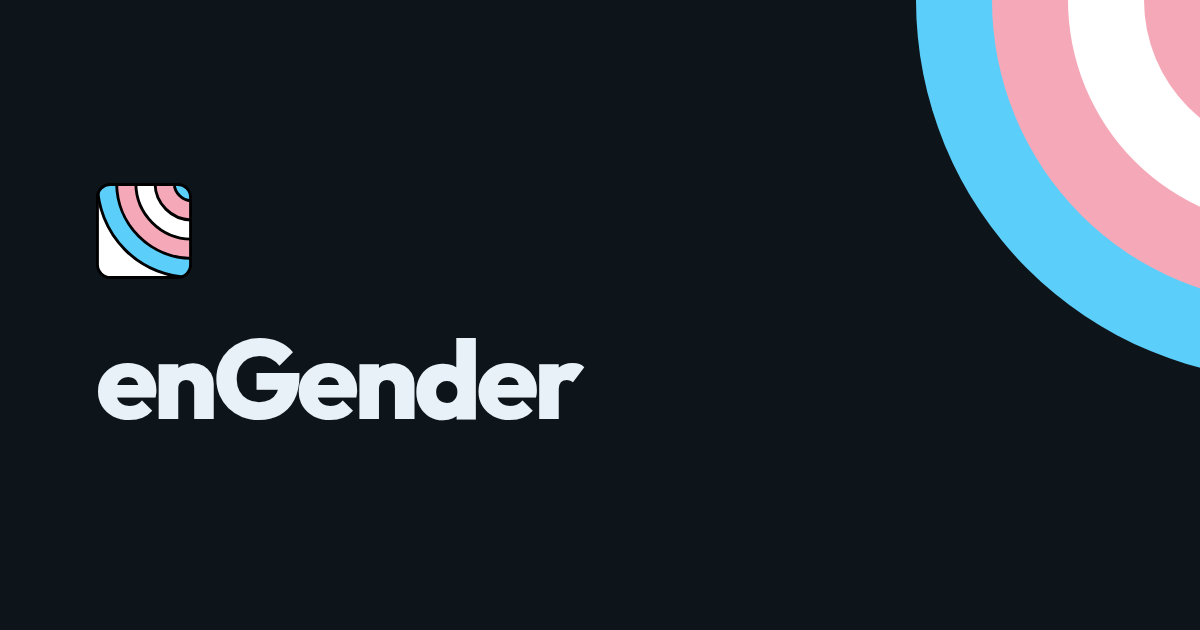
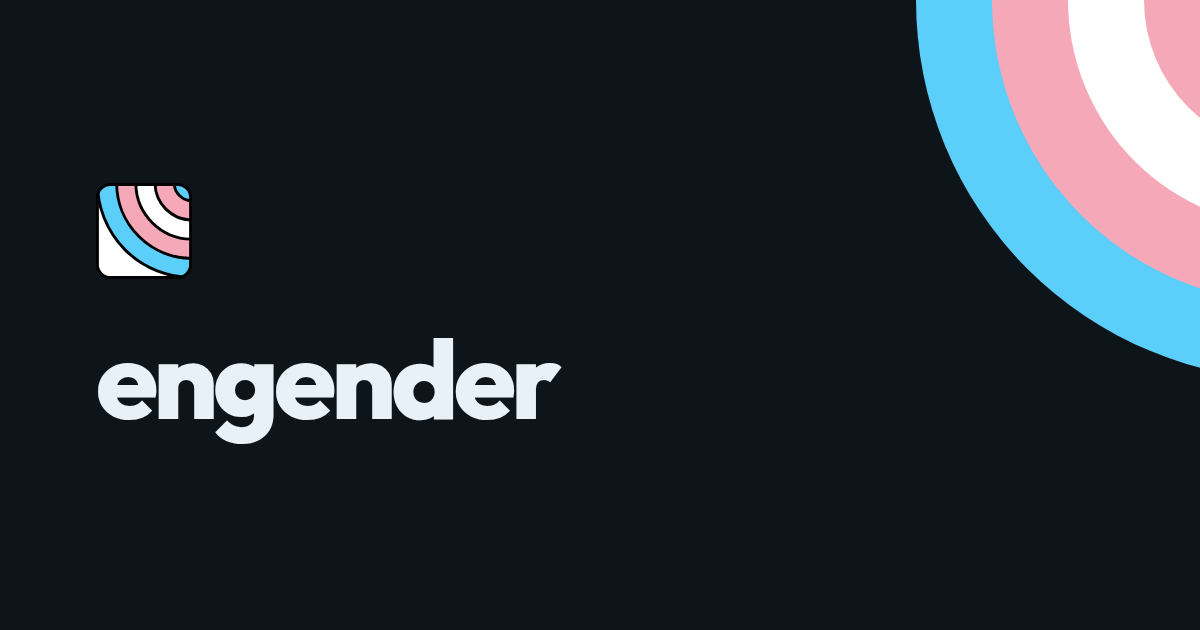
Set the name lowercase, and turn the flag cycle over in 24s not 48
Two things off the built page.

The name is engender, everywhere: the headword, the wordmark on the
social card, the footer, the titles, the gateway, the Play listing and
the source copy both pages are generated from (Alicja, 2026-09-22). It
reverses her own decision of 2026-08-28, which set the headword in the
product's camel case so the dictionary entry would be the pun rather than
a clue to it. content/en/landing.md carries both dates and what each one
bought, because the paragraph that argued for the old casing is the
paragraph a future ticket would have read as current.

The Polish pages still call the product Gender Diary, which is the
pre-rewrite copy state DESIGN.md already records as not canonized. It is
the translation pass's to change, not this ticket's.

And the cycle runs at three seconds instead of six. The mechanism was
never broken - driven for 56 seconds it walks all eight flags and comes
back to trans - but a full turn took 48 seconds, so a twenty-second visit
saw three of the eight and the site looked like it had three flags
(Alicja, 2026-09-22: "the site should cycle between all 8 flags, not just
3"). Six seconds was chosen when the flag was a motif in the corner and
the point was that the colour was changing rather than that anybody saw
the set; the splash is a field of the live flag now, so the flag is the
whole of the first screen's colour and the set is the thing to see. Three
is the floor, not a preference: the motif's own change takes 900ms and a
[…]

Changed region(s): [[0.1542, 0.5127, 0.4933, 0.7238]]

diff --git a/src/lib/flagCycle.svelte.ts b/src/lib/flagCycle.svelte.ts
@@ -10,12 +10,20 @@ import { FLAGS, type Flag } from '$lib/flags';
     offscreen or hidden. A page left open in a background tab for an afternoon
     should not be repainting a sun nobody is looking at.
 
-    The cycle is deliberately slow. Eight flags at six seconds is
-    forty-eight seconds for a full turn, which is longer than most visits: the
-    point is that the colour is *changing*, noticed out of the corner of an
-    eye, not that a reader gets shown all eight. A faster cycle turns the one
-    ambient thing on the page into a distraction sitting next to the copy. */
-const PERIOD_MS = 6000;
+    Three seconds, which is a full turn of all eight in twenty-four. It was
+    six, on the reasoning that the point was the colour *changing*, noticed out
+    of the corner of an eye, rather than a reader being shown all eight. That
+    stopped being true when the splash became a field of the live flag
+    (redesign ticket 08): the flag is the whole of the first screen's colour
+    now, not a motif in its corner, and at forty-eight seconds a visit that
+    lasts twenty only ever saw three of the eight - which is exactly what
+    Alicja reported on the built page (2026-09-22, "the site should cycle
+    between all 8 flags, not just 3").
+
+    Three and not less: the motif's own change takes 900ms and the rule's
+    sweep 1500, so anything under two seconds would start the next flag before
+    the last one had finished arriving. */
+const PERIOD_MS = 3000;
 
 let index = $state(0);
 let timer: ReturnType<typeof setInterval> | null = null;

diff --git a/src/routes/+page.svelte b/src/routes/+page.svelte
@@ -26,7 +26,7 @@
 </script>
 
 <svelte:head>
-  <title>enGender</title>
+  <title>engender</title>
   <meta name="description" content={description} />
   <link rel="canonical" href={`${SITE_ORIGIN}/`} />
   {#each LOCALES as locale (locale)}
@@ -41,7 +41,7 @@
 </svelte:head>
 
 <main id="content">
-  <h1>enGender</h1>
+  <h1>engender</h1>
   <!-- No label on the nav: the only words on this page are a name and the
        two language names, each tagged with its own lang, so there is nothing
        here for a person to read in the wrong language. -->

diff --git a/content/en/landing.md b/content/en/landing.md
@@ -1,6 +1,6 @@
 # Landing copy, English
 
-Source copy for the English site, rewritten for enGender by redesign ticket 02
+Source copy for the English site, rewritten for engender by redesign ticket 02
 against `.agents/product-marketing.md` v10. Written before the visual redesign
 (ticket 03), so the design serves this rather than this being cut to fit a layout.
 
@@ -26,13 +26,14 @@ names that person. The frame itself may be stated plainly, once: one trans perso
 wrote this for other trans people. It appears in the overview and nowhere else, and
 the copy otherwise shows who wrote it by knowing things, not by claiming to.
 
-enGender is the app; your journal, lowercase, is the thing it holds. The rename
+engender is the app; your journal, lowercase, is the thing it holds. The rename
 settled the old two-senses problem, and every page uses the words in those senses.
 The one fixed wording is the Start journal button, which reads as opening yours.
 
 The app's screens say scale, so this site says scale, and never dimension or axis.
 
-enGender keeps its casing everywhere, including at the start of a sentence.
+engender is lowercase everywhere, including at the start of a sentence
+(Alicja, 2026-09-22, reversing the camel case below).
 
 ---
 
@@ -55,19 +56,20 @@ stays on the page.
 dictionary entry with phonetics, and says the pun out loud rather than winking.
 Ticket 03 designs the shape; this is the text.*
 
-> **enGender** v. /ɪnˈdʒɛndə/
+> **engender** v. /ɪnˈdʒɛndə/
 > to cause or give rise to a feeling, situation or condition.
 
 The entry is the standard dictionary sense, unedited, because the reader completing
 the thought themselves is the whole trick. No line after it explains the joke.
 
 **The headword is set in the product's own casing** (Alicja's decision,
-2026-08-28). It read `engender`, the verb, with the reader left to notice that
-the app's name is the same word. Set as `enGender` the entry is the pun rather
-than a clue to it: a dictionary page for a word that is also the thing being
-described. It is the same word either way and the sense is untouched, so nothing
-about the claim changes - what changes is whether the page says it or waits to
-be caught.
+2026-08-28, and her reversal of it on 2026-09-22). For four weeks that casing
+was `enGender`, which made the entry the pun rather than a clue to it: a
+dictionary page for a word that is also the thing being described. The name is
+lowercase now, site-wide, so the headword reads `engender` - the verb, with the
+reader left to notice that the app's name is the same word. It is the same word
+either way and the sense is untouched, so nothing about the claim changes; what
+changes is whether the page says the joke or waits to be caught, and it waits.
 
 **Set as an entry rather than as a sentence** (Alicja's decision, 2026-08-27,
 during ticket 03). The headword takes its own line and everything the entry knows
@@ -97,13 +99,13 @@ links to and why nothing else on the page competes with it.
 
 *Gate: shipped.*
 
-> enGender is a journal for tracking gender transition. An entry holds a mood, a
+> engender is a journal for tracking gender transition. An entry holds a mood, a
 > note, your scales, tags, photos, a voice recording and how your body felt, and it
 > only needs one of those to count. Write several in one day if one does not cover
 > it. Backdate one to a day you missed.
 >
 > Mood trackers are the right shape for a daily habit, and they have nowhere to put
-> gender. enGender keeps the shape and adds scales you name yourself. It records
+> gender. engender keeps the shape and adds scales you name yourself. It records
 > what you tell it and does not try to interpret any of it.
 >
 > One trans person wrote this for other trans people. It is free software, there is
@@ -114,7 +116,7 @@ links to and why nothing else on the page competes with it.
 *Gate: shipped. The full page is `privacy.md` and this is only the handoff to it.*
 
 > Your journal is stored on your device, encrypted where it sits. There is no
-> enGender account, and your entries are not sent to an enGender server, because
+> engender account, and your entries are not sent to an engender server, because
 > none exists.
 >
 > What that protects, and what it does not, is on its own page.
@@ -324,7 +326,7 @@ too, per Journal Phase 2 ticket 25. The privacy page owns the longer treatment.*
 > **App lock.** A PIN in front of the app. It stops someone picking up your unlocked
 > phone and reading it. It is not encryption of what is stored.
 >
-> **Disguise.** The browser tab says Notes instead of enGender. On Android, the app's
+> **Disguise.** The browser tab says Notes instead of engender. On Android, the app's
 > name and icon on your phone go plain too.
 >
 > **Lock on leave.** Switch away from the app and it locks itself behind you.
@@ -419,7 +421,7 @@ the most literal way this page has. The block renders inside the Support section
 for now - the old site held it entirely, so no section of its own exists - and
 ticket 03 decides whether it earns one.*
 
-> **You can read it.** enGender is free software under the GPLv3. Do not take my
+> **You can read it.** engender is free software under the GPLv3. Do not take my
 > word for anything on this page: the source is public. Go and look, or get someone you
 > trust to look.
 >

diff --git a/content/en/privacy.md b/content/en/privacy.md
@@ -1,6 +1,6 @@
 # Landing copy, English: the privacy page
 
-Source copy for the privacy page, rewritten for enGender by redesign ticket 02
+Source copy for the privacy page, rewritten for engender by redesign ticket 02
 against `.agents/product-marketing.md` v10. The landing page carries a two-sentence
 handoff; being exact about what is and is not protected takes more than a sentence,
 and this page is where it happens.
@@ -28,7 +28,7 @@ this page could mislead somebody who is relying on it.
 
 *Gate: shipped.*
 
-> **What enGender protects, and what it does not**
+> **What engender protects, and what it does not**
 >
 > This is the long answer. The short one would have to leave out the parts that matter
 > if you are deciding whether to trust this with your journal.
@@ -37,7 +37,7 @@ this page could mislead somebody who is relying on it.
 
 *Gate: shipped.*
 
-> Your journal is stored on your device. There is no enGender account, no server
+> Your journal is stored on your device. There is no engender account, no server
 > with a copy of it on, and nothing syncing in the background. An entry you write goes
 > into storage on the device you wrote it on and stays there until you export it or
 > delete it.
@@ -50,7 +50,7 @@ this page could mislead somebody who is relying on it.
 *Gate: shipped. The counterweight sentence is required by ADR-0014 and by the spec
 wherever app lock is mentioned. It is not optional wording and does not get softened.*
 
-> App lock is off until you turn it on, like every control in enGender that hides
+> App lock is off until you turn it on, like every control in engender that hides
 > something. Keeping a journal about your own life is an ordinary thing to do. Some
 > people's circumstances make it dangerous anyway, and only you know whether that is
 > yours.
@@ -138,7 +138,7 @@ tickets 11 and 13); under the v10 doctrine it publishes with the rest.*
 > password into a key. That part has to be readable without the password, so that a
 > file from a newer version can say so instead of decrypting into nonsense. Everything
 > from your journal is behind the password. Somebody who finds the file learns that it
-> is an enGender Archive, because the header names the format, and nothing about what
+> is an engender Archive, because the header names the format, and nothing about what
 > is in it.
 >
 > **If you lose an Archive password**, that file is not readable again. Other Archives
@@ -158,14 +158,14 @@ appears here unqualified.*
 > What the host does not receive is your journal. Entries, photos, notes and lab values
 > are not sent to it, because there is nowhere for them to be sent.
 >
-> You will not read "enGender makes no network requests" here, because it is not
+> You will not read "engender makes no network requests" here, because it is not
 > true. Fetching the app is a network request. Your journal going somewhere is not.
 
 *Gate: shipped. The privacy consequence of one channel, stated where a reader weighs
 what to trust; the channel list itself is the acquisition section's.*
 
 > Installing from Google Play means Google records that your account installed this
-> app. That is between you and Google, and no setting inside enGender changes it.
+> app. That is between you and Google, and no setting inside engender changes it.
 
 ### What none of this protects against
 
@@ -175,7 +175,7 @@ compromised operating system and an already unlocked app.*
 > If somebody already controls your device, none of this is what stands between them
 > and your journal. An unlocked phone in somebody else's hands, an operating system
 > that has been compromised, or the app sitting open in front of them are all outside
-> what encryption at rest can do. enGender does not claim otherwise. Be wary of
+> what encryption at rest can do. engender does not claim otherwise. Be wary of
 > anything that does.
 
 ### The policy itself
@@ -217,7 +217,7 @@ comes from.
 | An Archive's header is readable without the password, and identifies the format | ADR-0007: plaintext header carrying magic bytes, version, parameters and salt. The magic bytes are `47 44 49 41 52 59`, ASCII GDIARY, the format keeping the name it was born with |
 | A lost Archive password makes that file unreadable, and affects no other Archive | ADR-0007. Each Archive derives its key from its own password and salt |
 | The web host sees an IP address and that the app was fetched | How hosted web applications work. Required by the spec to be stated |
-| Entries are not sent to an enGender server | No server exists |
+| Entries are not sent to an engender server | No server exists |
 | "Makes no network requests" is never used unqualified | Marketing context, never-list. The Journal's own About screen currently uses it, which is that repository's problem to fix and not a licence to repeat it here |
 | Installing from Play means Google knows | Marketing context, objections |
 | Memory inspection, a compromised operating system and an already unlocked app are out of scope | Phase 2 spec, at-rest encryption, final bullet |

diff --git a/content/play/en.md b/content/play/en.md
@@ -37,10 +37,10 @@ the full assembly has to fit with every gate passed.
 *Gate: baseline. Limit 30 characters. This field is Play's strongest ranking signal.
 Play prohibits "best", "free", "#1", calls to action, emoji and all-caps here.*
 
-> enGender: mood journal & diary
+> engender: mood journal & diary
 
 30 of 30 characters. The rename moved the goalposts here: the old brand carried
-gender and diary into the title for free, and enGender carries only gender. So the
+gender and diary into the title for free, and engender carries only gender. So the
 suffix now buys the three terms the brand does not: mood, journal and diary. The
 marketing context is explicit that most of this audience searches in the mood-tracker
 aisle and finds nothing with a place for gender, so the title meets them there and
@@ -68,12 +68,12 @@ passed: 3,839 characters.*
 
 *Gate: baseline.*
 
-> enGender is a journal for tracking gender transition. An entry holds a mood, a
+> engender is a journal for tracking gender transition. An entry holds a mood, a
 > note, your scales, tags and photos, and it only needs one of those to count. Write
 > several in one day, or backdate one to a day you missed.
 >
 > Mood trackers are the right shape for a daily habit, and they have nowhere to put
-> gender. enGender keeps the shape and adds scales you name yourself. It records
+> gender. engender keeps the shape and adds scales you name yourself. It records
 > what you tell it and does not interpret any of it.
 
 The first sentences are the ones Play shows before "read more", so the opening is the
@@ -83,7 +83,7 @@ product definition, not a greeting.
 
 > Your journal, your device
 >
-> Your journal is stored on your device. There is no enGender account, no server
+> Your journal is stored on your device. There is no engender account, no server
 > with a copy of it, and nothing syncing in the background.
 
 "Makes no network requests" does not appear, per the claim table: fetching updates is
@@ -176,7 +176,7 @@ the wording here assumes a launcher alias and a one-gesture exit.*
 > and rainbow. Each recolours the whole app, charts and calendar included, in light
 > and dark. Colour never judges: no red for a bad day, and an empty day stays empty.
 >
-> enGender is in English and Polish.
+> engender is in English and Polish.
 
 *Gate: the Journal repository actually being public, the same caveat as the site's
 Source section. By Journal ticket 18 it will be, since F-Droid rebuilds from public
@@ -184,7 +184,7 @@ source, but the gate is the repository's visibility and not the licence file.*
 
 > Free software
 >
-> enGender is free software under the GPLv3. Do not take my word for anything on
+> engender is free software under the GPLv3. Do not take my word for anything on
 > this listing: the source is public. Go and look, or get someone you trust to look.
 > If this project ever stops, someone else can pick the code up.
 

diff --git a/PRODUCT.md b/PRODUCT.md
@@ -45,7 +45,7 @@ This site never renders their data and never touches their journal.
 
 ## Product Purpose
 
-enGender is a journal for tracking gender transition day by day, local-first,
+engender is a journal for tracking gender transition day by day, local-first,
 with no account and no backend. This repository is not that app. It is the
 public site that explains the app and hands a visitor to it: it says what the
 app does, what its privacy actually protects and what it does not, where to get
@@ -162,7 +162,7 @@ Undecided, each with its owner:
 
 ## Brand Commitments
 
-**The name is enGender**, always that casing, including at the start of a
+**The name is engender**, always that casing, including at the start of a
 sentence. Never Engender, EnGender or engender when naming the app. Renamed from
 the "Gender Diary" working title (Alicja's decision, 2026-08-26). The landing
 page carries a dictionary-style entry for the verb with its phonetics and says

diff --git a/README.md b/README.md
@@ -1,14 +1,14 @@
-# enGender landing site
+# engender landing site
 
-The public site that explains enGender and points people at the Journal.
+The public site that explains engender and points people at the Journal.
 
-enGender (renamed from Gender Diary on 2026-08-26) is a local-first journal for tracking gender transition. It lives in a
+engender (renamed from Gender Diary on 2026-08-26) is a local-first journal for tracking gender transition. It lives in a
 separate repository and on a separate origin, and this site never shares storage,
 a service worker or runtime code with it.
 
 ## Status
 
-Live, mid-rebrand. The English copy is rewritten for the enGender rename; the
+Live, mid-rebrand. The English copy is rewritten for the engender rename; the
 Polish still says Gender Diary and is Alicja's own translation pass. The
 redesign spec and its tickets live in `.scratch/`, which is not committed.
 

diff --git a/content/play/keywords.md b/content/play/keywords.md
@@ -15,7 +15,7 @@ this audience searches in the mood-tracker aisle and finds nothing with a place 
 gender. So the listing spends the title, the strongest field, on the mood aisle where
 the volume is, and covers the niche transition terms in the short description and
 throughout the full description, where a low-competition term does not need title
-weight to rank. The enGender rename changed the arithmetic: the old brand carried
+weight to rank. The engender rename changed the arithmetic: the old brand carried
 "gender" and "diary" into the title for free, the new one carries only "gender", so
 the title suffix has to buy "diary" as well as the mood terms.
 

diff --git a/DESIGN.md b/DESIGN.md
@@ -1,5 +1,5 @@
 ---
-name: enGender landing
+name: engender landing
 description: The app's own printed language at poster scale, with the motion the app cannot afford.
 colors:
   paper: '#f4f8fb'
@@ -220,7 +220,7 @@ components:
     padding: '0 0.35rem'
 ---
 
-# Design System: enGender landing
+# Design System: engender landing
 
 Recorded from the built site after redesign ticket 08, not from what the ticket
 planned. Where the two differ the build wins, and three places are called out
